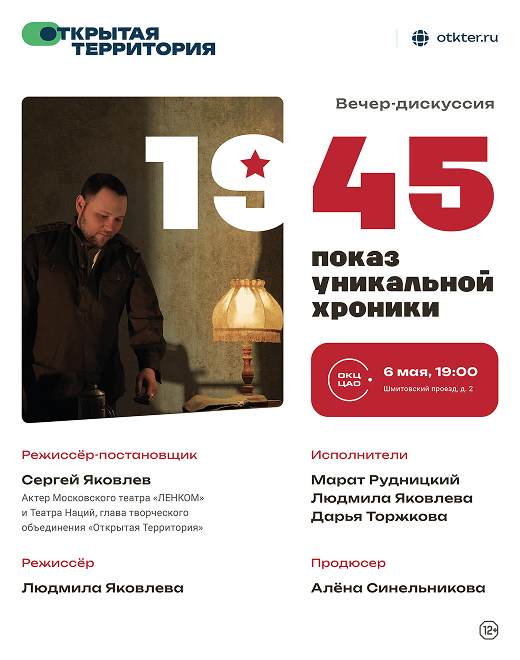
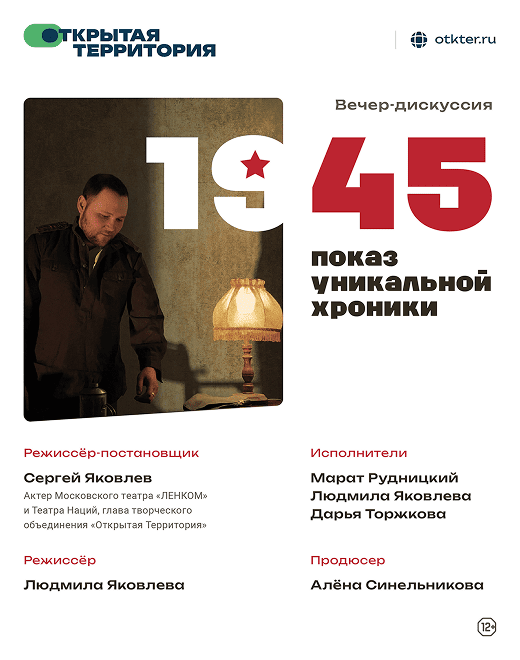
feat:обновил постеры в проектах, добавил постеры в услуги и в амплитуду

diff --git a/src/utils/constants.ts b/src/utils/constants.ts
@@ -113,10 +113,11 @@ import { buyTickets } from "./buyTickets";
 // Постеры по проектам
 import uniqueChroniclePoster from "../assets/projects/posters/chronicle.png";
 import eseninPoster from "../assets/projects/posters/esenin.png";
- 
+import amplitudePoster from "../assets/projects/posters/amplitude.png";
 
 // Ссылки по проектам
-const buyTicketsLinkChronics = "https://tickets.mos.ru/widget/visit?eventId=61367&agentId=museum56&date=2025-05-04";
+const buyTicketsLinkChronics =
+  "https://tickets.mos.ru/widget/visit?eventId=61367&agentId=museum56&date=2025-05-04";
 const buyTicketsLinkEsenin = "https://bilet.mos.ru/event/338617257/";
 
 export const navLinks: TNavLinks = [
@@ -552,7 +553,7 @@ export const projectInfos: TProjectInfo[] = [
         ],
       },
     },
-    previewImg: "/preview_nikolai.png"
+    previewImg: "/preview_nikolai.png",
   },
   {
     id: 6,
@@ -635,7 +636,7 @@ export const projectInfos: TProjectInfo[] = [
         ],
       },
     },
-    previewImg: "/preview_two.png"
+    previewImg: "/preview_two.png",
   },
   {
     id: 7,
@@ -713,7 +714,7 @@ export const projectInfos: TProjectInfo[] = [
       },
     },
     previewImg: "/preview_esenin.png",
-    poster: eseninPoster
+    poster: eseninPoster,
   },
   {
     id: 8,
@@ -741,7 +742,7 @@ export const projectInfos: TProjectInfo[] = [
       {
         type: "date",
         label: "Дата и время",
-        value: "22 мая 20:00",
+        value: "1 июня 19:00",
       },
       {
         type: "price",
@@ -824,7 +825,8 @@ export const projectInfos: TProjectInfo[] = [
         ],
       },
     },
-    previewImg: "/preview_amplitude.png"
+    poster: amplitudePoster,
+    previewImg: "/preview_amplitude.png",
   },
 ];
 
@@ -1326,26 +1328,31 @@ export const serviceInfos: TServiceInfo[] = [
         ],
       },
     },
+    poster: OT,
   },
   {
     id: 2,
     text: "Организуем и проведем мероприятия любой сложности. Концерты, городские мероприятия, творческие вечера, фестивали, конкурсы, спектакли т. п.",
     serviceDetails: [],
+    poster: events,
   },
   {
     id: 3,
     text: "Берем в работу задачи по графическому дизайну, айдентике, полиграфии, UX/UI и разработке сайтов.",
     serviceDetails: [],
+    poster: design,
   },
   {
     id: 4,
     text: "Организация съемки мероприятий, в том числе интервью, подкастов, рилсов, репортажей, бэкстейджей, документальных фильмов, коротких метров или иных съемок. Обеспечивается полный цикл производства, от подготовительного до монтажно-тонировочного периода, и команда профессионалов (режиссер-постановщик, оператор-постановщик, гафер, звукорежиссёр, актеры и т.д.).",
     serviceDetails: [],
+    poster: content,
   },
   {
     id: 5,
     text: "Проведем мастер-классы и треннинги по актерскому мастерству, ораторскому искусству.",
     serviceDetails: [],
+    poster: masterClasses,
   },
   {
     id: 6,
@@ -1384,11 +1391,13 @@ export const serviceInfos: TServiceInfo[] = [
         ],
       },
     },
+    poster: lamp,
   },
   {
     id: 7,
     text: "Менеджмент социальных сетей (SMM - создание и управление контентом на платформах социальных медиа) и связи с общественностью (PR - формирование и поддержание положительного имиджа компании через взаимодействие с общественностью и медиа).",
     serviceDetails: [],
+    poster: smm,
   },
 ];
 

diff --git a/src/pages/service-info/service-info.tsx b/src/pages/service-info/service-info.tsx
@@ -13,6 +13,7 @@ import { useGetInfosText } from "../../hooks/useGetInfosText";
 import { useGetServiceTitle } from "../../hooks/useGetServiceTitle";
 import { useGetPhotos } from "../../hooks/useGetPhotos";
 import { useGetInfosDetails } from "../../hooks/useGetInfosDetails";
+import { useGetPoster } from "../../hooks/useGetPoster";
 
 export const ServiceInfo: FC = () => {
   const [docReadyState, setDocReadyState] = useState<DocumentReadyState | null>(
@@ -23,6 +24,7 @@ export const ServiceInfo: FC = () => {
   const serviceId = useGetId();
   const title = useGetServiceTitle(serviceId);
   const text = useGetInfosText(serviceId, "services");
+  const poster = useGetPoster(serviceId, "services");
   const isEmployees = useGetInfosIsEmployees(serviceId, "services");
   const controls = useGetControls(serviceId, "services");
   const isControls =
@@ -49,7 +51,7 @@ export const ServiceInfo: FC = () => {
         id={serviceId}
         title={title}
         text={text}
-        poster={undefined}
+        poster={poster}
         attention={false}
         colorAttention={undefined}
         isEmployees={isEmployees}

diff --git a/src/components/ui/pages/info/info.tsx b/src/components/ui/pages/info/info.tsx
@@ -151,7 +151,8 @@ export const InfoUI: FC<TInfoUIProps> = ({
                   isLaptop && styles.info__poster_laptop,
                   isTablet && styles.info__poster_tablet,
                   isMobile && styles.info__poster_mobile,
-                  (isTablet || isMobile) && styles.info__poster_margined
+                  (isTablet || isMobile) && styles.info__poster_margined,
+                  type === "services" && styles.info__poster_service
                 )}
               />
             )}

diff --git a/src/components/ui/pages/info/info.module.css b/src/components/ui/pages/info/info.module.css
@@ -76,6 +76,11 @@
   border-radius: 40px;
 }
 
+.info__poster_service {
+  object-fit: cover;
+  object-position: center;
+}
+
 .info__poster_margined {
   margin-bottom: 40px;
 }

diff --git a/src/features/projectsInfo/infosSlice.ts b/src/features/projectsInfo/infosSlice.ts
@@ -26,6 +26,7 @@ export type TServiceInfo = {
   text: string;
   serviceDetails: TEventDetails[];
   employees?: TEmployees;
+  poster?: string;
 };
 
 type TInfosState = {
